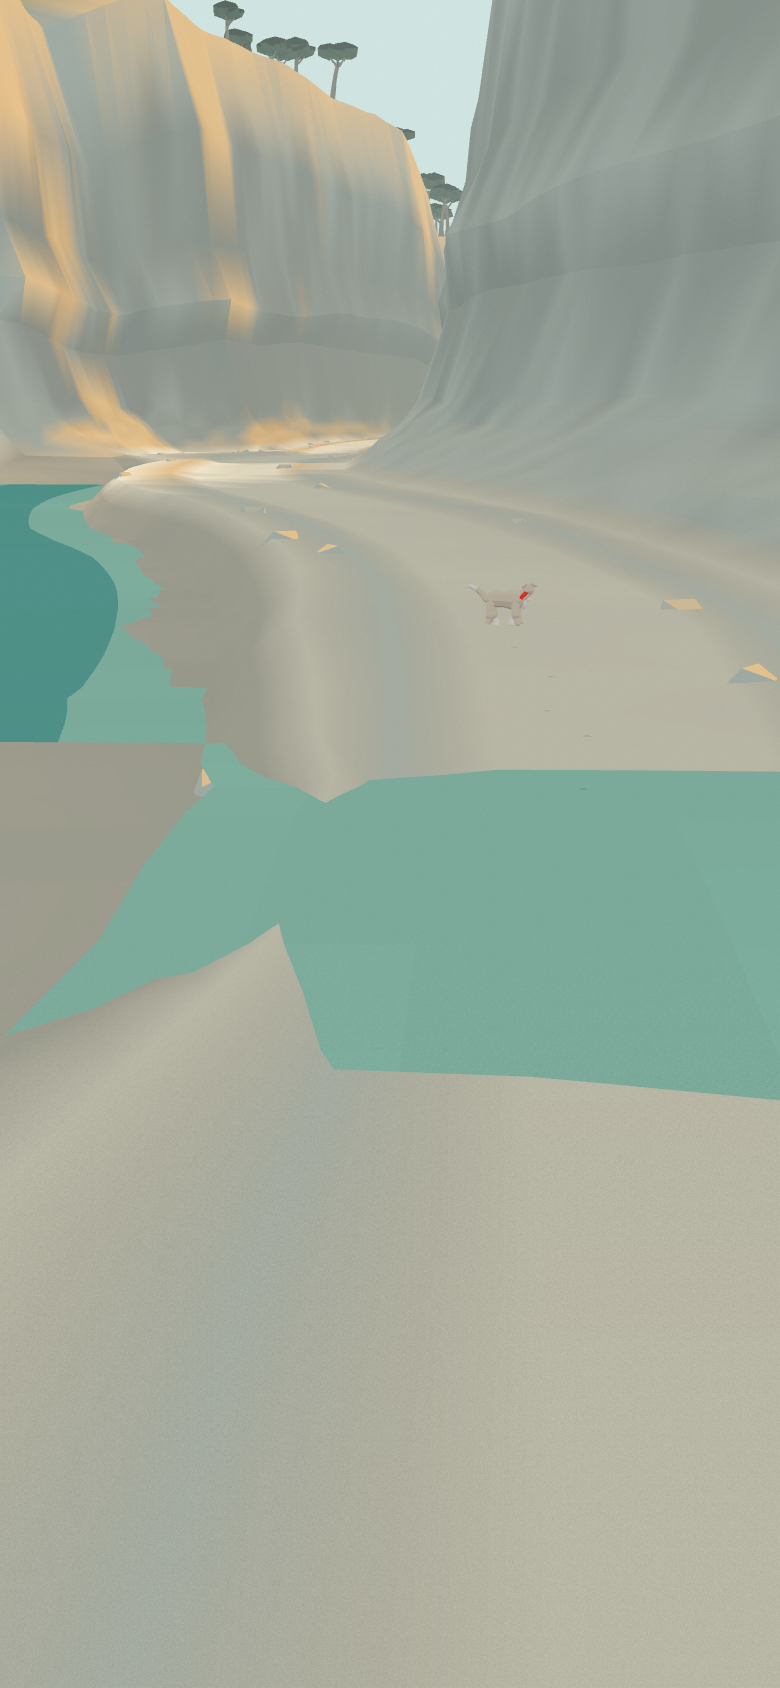
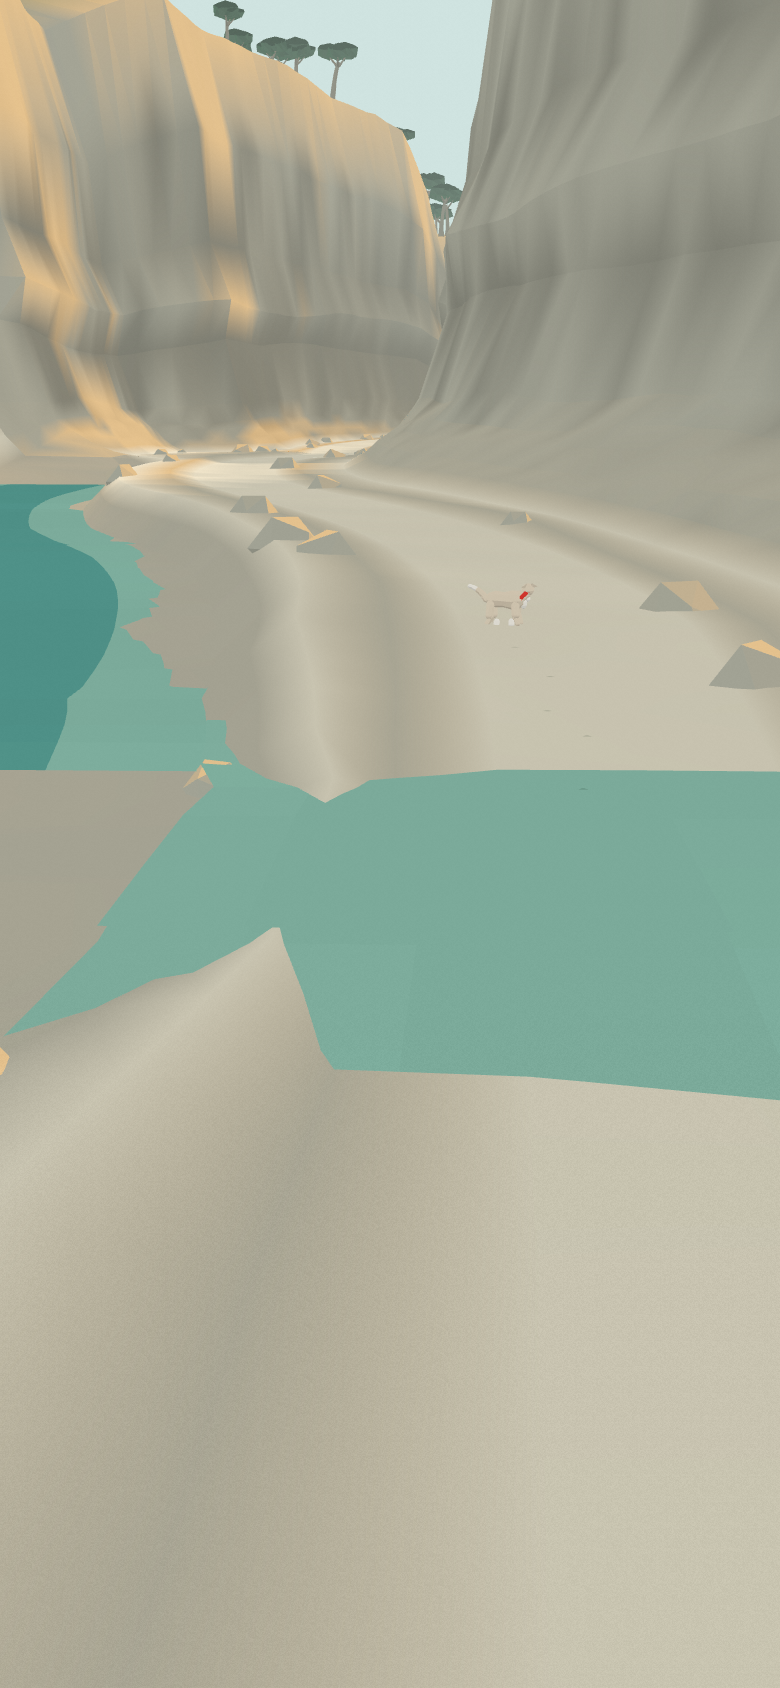
The collar clears the jaw, the dog gets a shade side, the wall gets a ledge
The collar sat level with the skull and read as a red sticker on the dog's
cheek — a bandage, or a luggage tag — which is a bad thing for the most
load-bearing shape in the game to be. It is at the base of the neck now.

The dog's coat is #E5D5BC and the canyon gravel is #EFE3C8: four value
points apart, near-identical hue. His own shading has to supply the
separation his albedo cannot, so his shade side goes properly cool, and he
gets a contact shadow always — not only where the sun reaches him. A dog
that close to the value of the ground has nothing else holding him to it.

The wall gains a real ledge low down. The gameplay camera stands two metres
off the ground three and a half metres from that face, so what it sees is
the bottom eight metres and nothing else; with no plane break down there the
nearest object in the frame had no form at all.

Claude-Session: https://claude.ai/code/session_01G1jKuLVXeS9X4JvEZghPPR

diff --git a/src/art/ArtBible.tsx b/src/art/ArtBible.tsx
@@ -87,12 +87,14 @@ function Scene({ shot, onShots }: { shot: string; onShots: (s: Shot[]) => void }
     // The dog's is tighter and darker than the boy's on purpose: he is the
     // thing the player is looking for, on ground almost exactly his own value,
     // and the contact shadow is what stops him floating on it.
-    for (const [actor, foot, hgt, strength, occ, core] of [
-      [boy, 0.34, 1.15, 0.5, boyOcc, 0.45],
-      [dog, 0.26, 0.5, 0.68, dogOcc, 0.6],
+    for (const [actor, foot, hgt, strength, core] of [
+      [boy, 0.34, 1.15, 0.5, 0.45],
+      [dog, 0.26, 0.5, 0.68, 0.6],
     ] as const) {
-      // no cast shadow where there is no sun to cast it
-      if (occ > 0.8) continue
+      // A contact shadow always, even in terrain shadow. It is not only a cast
+      // shadow — it is what stops the character floating on the ground, and a
+      // dog whose coat is four value points from the sand he stands on has
+      // nothing else holding him to it.
       const blob = makeBlobShadow({
         footprint: foot,
         height: hgt,

diff --git a/src/art/characters.ts b/src/art/characters.ts
@@ -414,7 +414,10 @@ export function buildDog(pose: DogPose = DOG_LOOK_BACK, occlusion = 0): THREE.Gr
   // Red-audit whitelist entry 1 of 2. It wraps the NECK, behind the jaw.
   const collarGeom = new THREE.TorusGeometry(0.07, 0.026, 6, 14)
   collarGeom.rotateX(Math.PI / 2 - 0.78)
-  collarGeom.translate(0, NECK_Y + 0.008, NECK_Z + 0.012)
+  // Down at the base of the neck, clear of the skull. Sitting level with the
+  // jaw it read as a red sticker on his cheek — a bandage or a luggage tag —
+  // which is a bad thing for the most load-bearing shape in the game to be.
+  collarGeom.translate(0, NECK_Y - 0.035, NECK_Z - 0.012)
   const collarMat = makeRamp({
     color: DOG.collar.hex,
     shadowKey: DOG.collar.hex,

diff --git a/src/art/palette.ts b/src/art/palette.ts
@@ -142,7 +142,12 @@ export const SHADOW_MIX = {
   // times too desaturated. Foliage keeps nearly all of its own colour in shade.
   foliage: 0.12,
   water: 0.2,
-  character: 0.18,
+  // The dog's coat is #E5D5BC and the canyon gravel is #EFE3C8. He is four
+  // value points from the ground he trots over, so his own shading has to
+  // supply the separation his albedo cannot: a shade side that goes properly
+  // cool is what gives him a form to be seen as, and what lets the white points
+  // read as points rather than as more of the same pale.
+  character: 0.34,
   distant: 0.26,
 } as const
 
